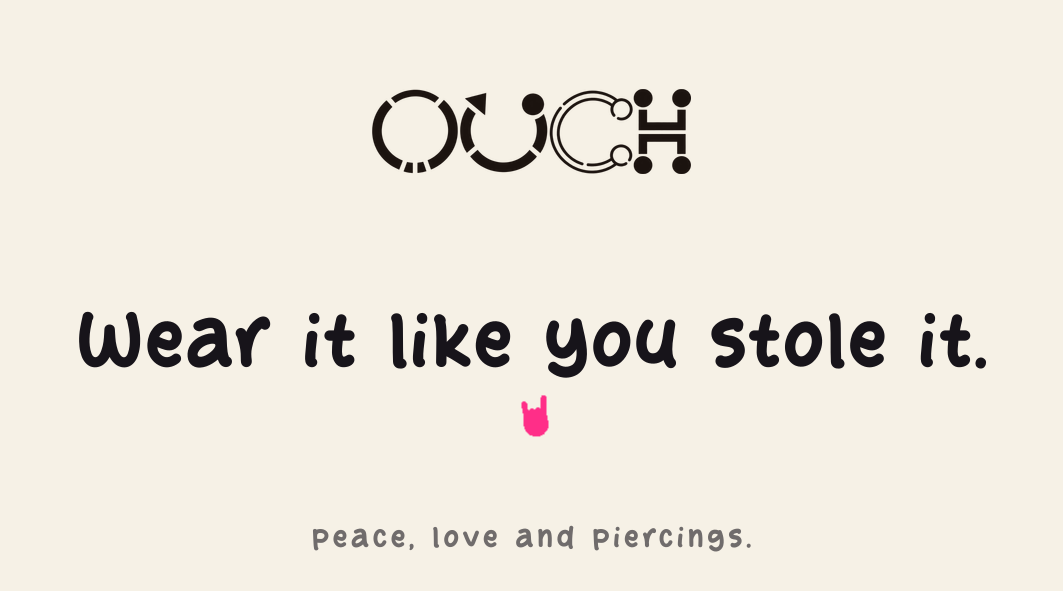
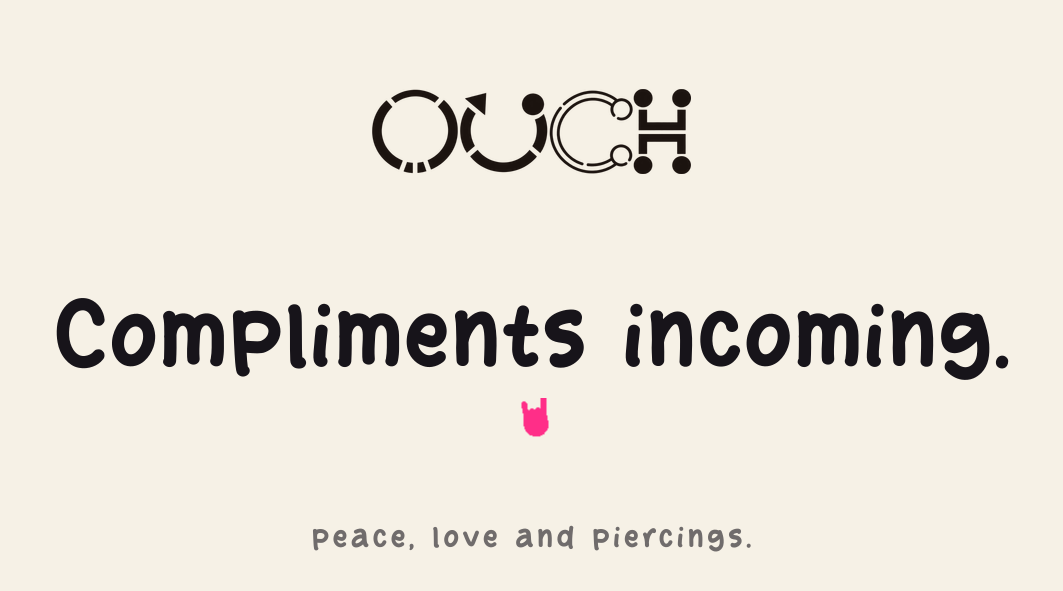
Happier card C: 'Compliments incoming.' replaces the stolen one

Changed region(s): [[0.031, 0.4873, 0.9624, 0.6396]]

diff --git a/src/app/(frontend)/packaging/page.tsx b/src/app/(frontend)/packaging/page.tsx
@@ -89,7 +89,7 @@ export default function PackagingPage() {
           {[
             ['card-a.png', 'Card — “Congrats. You have taste.”', '90 × 50 mm'],
             ['card-b.png', 'Card — “Small thing. Big flex.”', '90 × 50 mm'],
-            ['card-c.png', 'Card — “Wear it like you stole it.”', '90 × 50 mm'],
+            ['card-c.png', 'Card — “Compliments incoming.”', '90 × 50 mm'],
             ['card-d.png', 'Card — “Warning: people will ask.”', '90 × 50 mm'],
             ['card-e.png', 'Card — “This one found you.”', '90 × 50 mm'],
             ['card-back.png', 'Thank you card — back', 'write the maker&apos;s name by hand'],
@@ -142,8 +142,8 @@ export default function PackagingPage() {
           <p className="text-poster mt-4 text-[12px] tracking-[0.14em]">peace, love and piercings.</p>
         </div>
         <p className="mt-4 text-sm opacity-75">
-          Five fronts printed: Congrats. You have taste. · Small thing. Big flex. · Wear it like
-          you stole it. · Warning: people will ask. · This one found you.
+          Five fronts printed: Congrats. You have taste. · Small thing. Big flex. · Compliments
+          incoming. · Warning: people will ask. · This one found you.
         </p>
       </Reveal>
 
